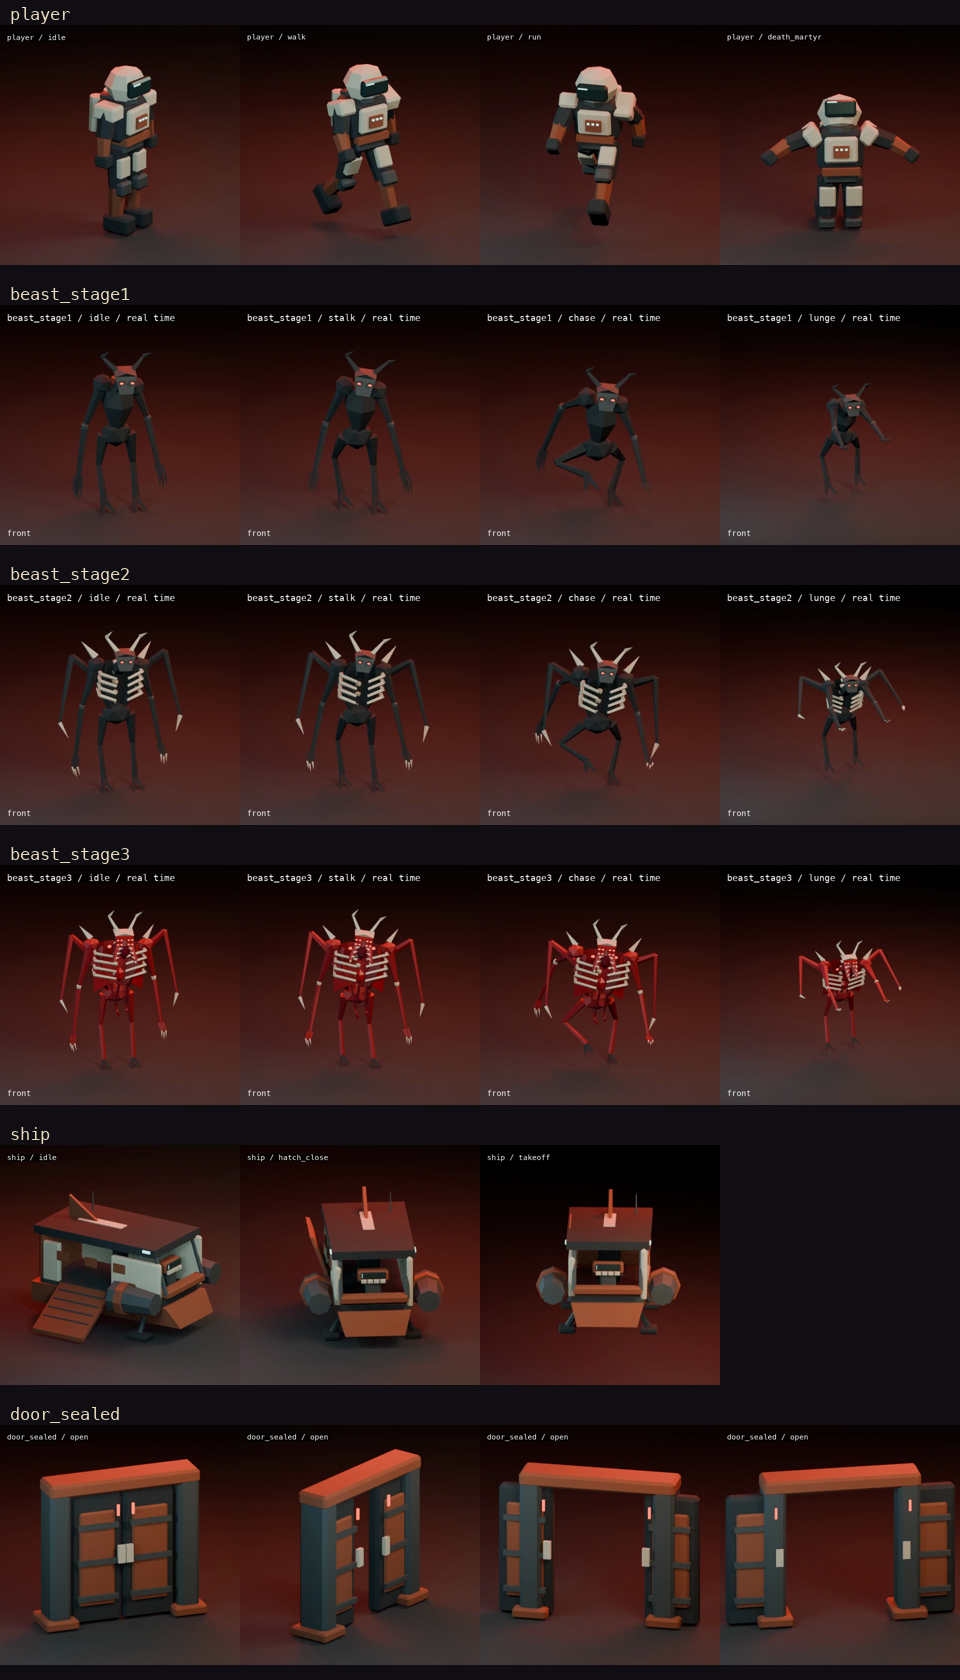
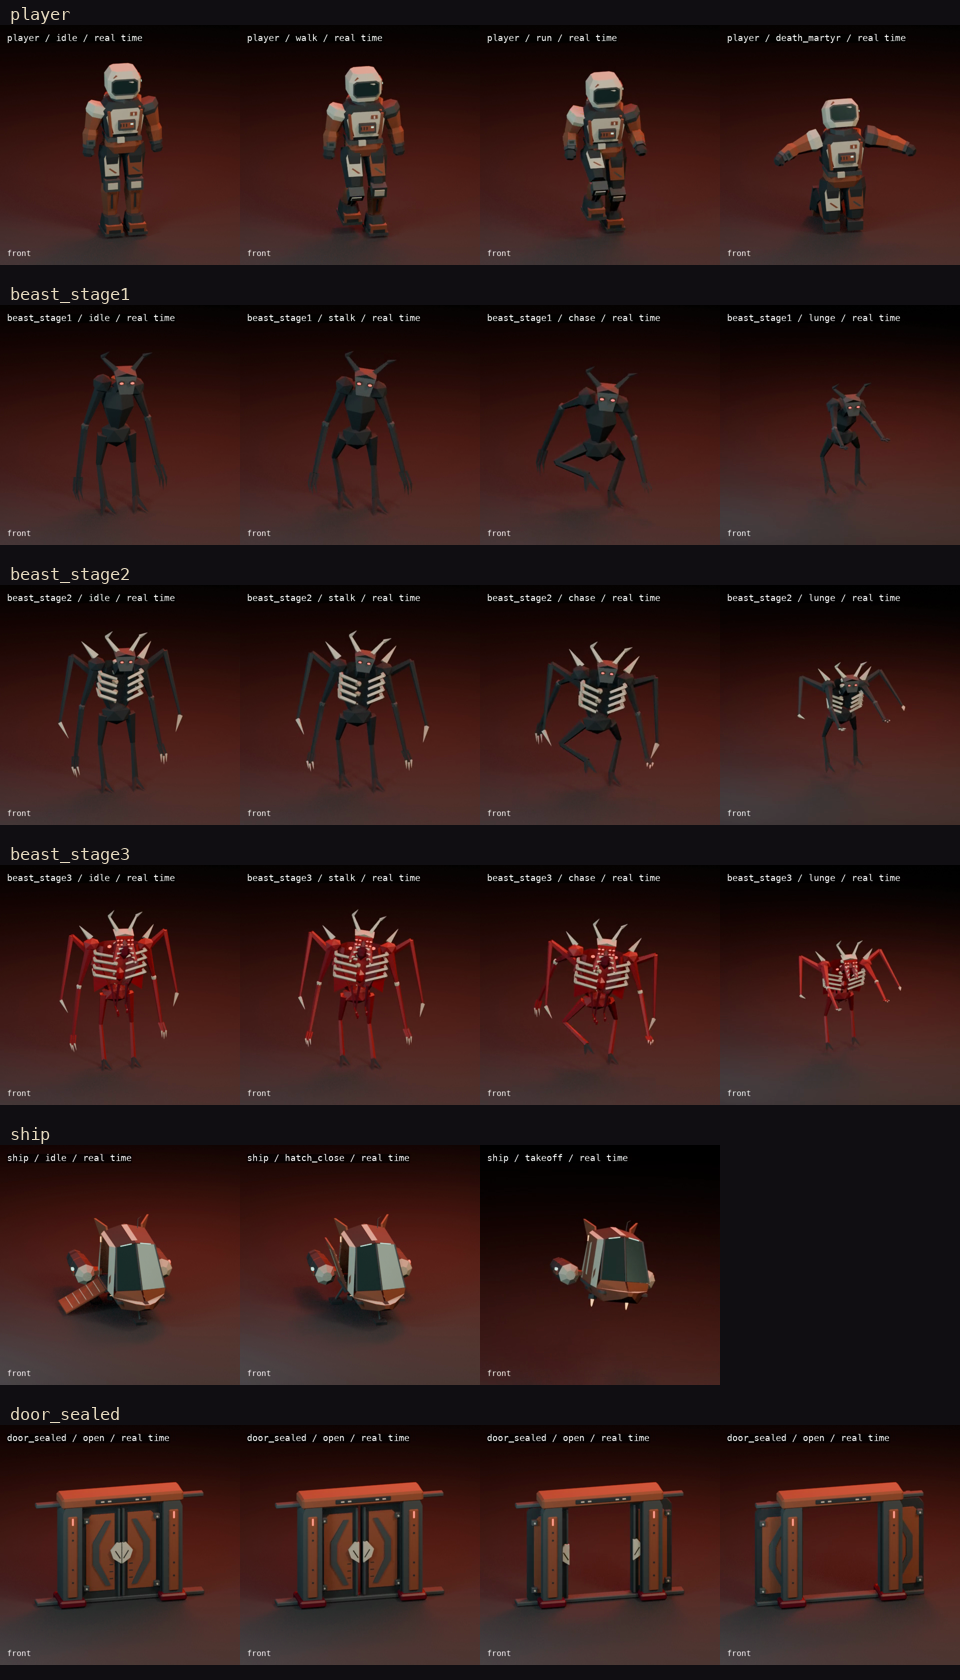
Publish final art review and integration evidence

diff --git a/tools/blender/write_review_guide.py b/tools/blender/write_review_guide.py
@@ -23,7 +23,9 @@ for name,entry in manifest['models'].items():
     clips=', '.join(f'[{clip}]({Path(path).name})' for clip,path in entry.get('review_sheets',{}).items()) or '—'
     lines.append(f'| {name} | {views} | {clips} |')
 if 'escape_video' in manifest['models']['ship']['files']:
-    lines += ['', '![Escape over the blood sea](ship_escape.png)', '', '[Nine-second cinematic takeoff](ship_escape.mp4). This uses the exported takeoff action with preview-only scenery and a warm horizon.', '']
+    lines += ['', '![Escape over the blood sea](ship_escape.png)', '', '[Nine-second cinematic takeoff](ship_escape.mp4). This uses the same authored takeoff action with preview-only scenery and a warm horizon.', '']
+    if 'ship_escape' in attachments:
+        lines += [f"[Watch the PR attachment]({attachments['ship_escape']['url']}).", '']
 lines += ['', '![Selected animation poses](animation_poses.png)', '',
           'The [asset README](../README.md) contains build and integration instructions. The [validation report](validation.json) covers the actual binary FBX files, fresh imports and decoded recordings. Unity runtime import has not been tested in this worktree.', '']
 (ROOT/'assets/previews/README.md').write_text('\n'.join(lines))

diff --git a/tools/blender/contact_sheet.py b/tools/blender/contact_sheet.py
@@ -4,6 +4,7 @@ Run with system Python and Pillow after build_all.py or render_recordings.py.
 """
 import io
 import json
+import os
 import subprocess
 from pathlib import Path
 from PIL import Image, ImageDraw, ImageFont
@@ -29,7 +30,15 @@ canvas.save(PREVIEWS/'contact_sheet.png')
 video_names=['player','beast_stage1','beast_stage2','beast_stage3','ship','door_sealed']
 canvas=Image.new('RGB',(960,1680),'#100e12')
 draw=ImageDraw.Draw(canvas)
-ffmpeg='/opt/homebrew/opt/ffmpeg@6/bin/ffmpeg'
+ffmpeg=None
+for candidate in [os.environ.get('FFMPEG'), '/opt/homebrew/bin/ffmpeg',
+                  '/opt/homebrew/opt/ffmpeg@6/bin/ffmpeg']:
+    if candidate and Path(candidate).is_file():
+        if subprocess.run([candidate,'-version'],capture_output=True).returncode==0:
+            ffmpeg=candidate
+            break
+if not ffmpeg:
+    raise RuntimeError('No working ffmpeg found. Set FFMPEG to an installed executable.')
 for row,name in enumerate(video_names):
     segments=manifest['models'][name]['preview_segments']
     if len(segments)==1:

diff --git a/assets/README.md b/assets/README.md
@@ -2,7 +2,7 @@
 
 All 15 production models are in `Unity/Assets/Resources/Models/`, with `manifest.json` beside them. Load a model with `Resources.Load("Models/player")`, replacing `player` with its manifest name. `Mock/` belongs to another thread and is untouched.
 
-The kit includes the 1.8 m astronaut, three evolving creatures, escape ship, interactive console, sealed door, two rocks, pillar, arch, mural slab, wreckage, shore, and blood sea. All use flat shading and a shared rust, charcoal, bone, and red palette. The largest model has 1,496 triangles. The shore has 288 triangles and the flat sea has two.
+The kit includes the 1.8 m astronaut, three evolving creatures, escape ship, interactive console, sealed door, two rocks, pillar, arch, mural slab, wreckage, shore, and blood sea. All use flat shading and a shared rust, charcoal, bone, and red palette. The largest model has 1,404 triangles. The shore has 836 triangles and the flat sea has two.
 
 ## Rebuild
 
@@ -33,27 +33,39 @@ Every named action is sampled on every frame at 24 fps. Temporary NLA strips pre
 | ship | idle, hatch_close, takeoff |
 | door_sealed | open |
 
-Use Generic rigs for the custom skeletons. Set looping from the manifest's `loop` flag. Walk, run, stalk, and chase play in place. Lunge moves its root 0.9 m forward. Takeoff starts with the hatch closed and moves 5 m upward and 3 m forward. Keep those root movements in the animation or consume them through the game controller, but do not apply both. Hold the final pose of death_martyr, lunge, hatch_close, takeoff, and open.
+Use Generic rigs and set looping from the manifest. Walk, run, stalk and chase have no net forward travel; the game controller supplies locomotion. Preserve their animated vertical offsets and limb poses. Lunge moves its root 0.9 m forward. The player's seven-second `death_martyr` ends at `(0, -0.384, -0.015)` m relative to its starting root. The ship's nine-second `takeoff` starts with the hatch closed and ends at `(1.6, 12.35, -13.2)` m, with folded landing feet and the nose raised. Apply those authored movements once. Hold the final martyr, lunge, hatch-close and door-open poses; finish the escape transition at the end of takeoff.
 
 ## Interactive geometry
 
-The console has a blank UV-mapped `screen` quad and independent `tile_0` through `tile_3` meshes. Press a tile 0.025 m along exported +Z, then restore it. The ship contains a visible cockpit console and a hinged side hatch. The standalone console is suitable for the game's decoding interaction.
+The console has a blank 0.79 × 0.19 m UV-mapped `screen`, centred at `(0, 1.235, -0.343)`, and independent `tile_0` through `tile_3` meshes. Its front faces -Z. Press a tile 0.025 m along model-local +Z, then restore its original position. Mesh origins remain at the asset base; mesh bounds give each key's visible centre. The ship has a decorative cockpit dashboard and a hinged side ramp. Its entry is 1.58 m wide with at least 1.91 m vertical clearance, and its open ramp extends to X = 2.87559 m. Play `hatch_close` before `takeoff`.
 
 The mural's `picture` quad is 1.22 m wide and 1.60 m high, with UVs spanning 0 to 1. Replace its material with the game mural. Both screen and picture faces point toward exported -Z.
 
+The sealed door opens in 3.5 seconds. Each leaf first unseals 0.06 m rearwards, then slides 1.19 m outwards. Allow 4.60 m total width for the rails. A conservative traversal opening is 2.04 m wide by 2.60 m high above the 0.11 m threshold.
+
 The shore and sea are each 20 m square. With the shore at the origin, put the sea at Unity position `(0, 0.36, -14)`. The shore's dry edge lies at Z = +10 and its submerged edge at Z = -10. Repeat shore tiles along X in 20 m steps; repeat sea tiles in X and Z. The sea is flat so the game can supply any wave or blood shader.
 
-FBX contains flat base colours and emissive values. Unity's selected render pipeline may require material conversion and emission enabled on `eye` and `signal`. No `.meta`, Unity editor scripts, colliders, controller code, or imported Unity material assets are supplied.
+FBX contains flat base colours and emissive values. Preserve emission for `eye`, `signal` and the ship's `escape_amber`, and preserve two-sided rendering for thin panels, screen/picture faces and water. Visors are opaque. The sea uses a separate `blood_sea_surface` material. Preview lighting and scenery are not exported. Unity material conversion and runtime appearance still need verification in the selected render pipeline. No `.meta`, colliders, controllers or Unity material assets are supplied.
 
 ## Verification and previews
 
 ```sh
 /Applications/Blender.app/Contents/MacOS/Blender --background --factory-startup --python-exit-code 1 --python tools/blender/validate.py
+/Applications/Blender.app/Contents/MacOS/Blender --background --factory-startup --python-exit-code 1 --python tools/blender/audit_beast_motion.py
 python3 tools/blender/contact_sheet.py
+python3 tools/blender/write_review_guide.py
 ```
 
 The contact sheet command needs Pillow. It uses the saved PNGs and decoded MP4 frames.
 
-`assets/previews/validation.json` records checks against the actual binary FBX and a fresh Blender FBX import: identity roots, metre units, take names, triangle counts, bounds, UVs, one armature, and sampled animated bounds. All six MP4s are decoded as H.264/yuv420p. Revised recordings show three simultaneous views at 12 fps with the original clip timing; key poses and static views also have dedicated PNG review sheets. These checks do not replace a Unity runtime test; the Unity project is owned by another thread.
+`assets/previews/validation.json` records checks against the actual binary FBX and a fresh Blender FBX import: identity roots, metre units, take names, triangle counts, bounds, UVs, one armature, and sampled animated bounds. All seven MP4s are decoded as H.264/yuv420p. Revised inspection recordings show three simultaneous views at 12 fps with the original clip timing; key poses and static views also have dedicated PNG review sheets. The separate escape cinematic runs at 24 fps. These checks do not replace a Unity runtime test; the Unity project is owned by another thread.
 
 The [contact sheet](previews/contact_sheet.png) shows every model. The [pose sheet](previews/animation_poses.png) samples the recordings. [Review notes](previews/README.md) link each recording and identify its clip timestamps.
+
+`build_all.py` also renders the ship's separate nine-second escape cinematic over a blood sea. To repeat only that shot from the saved source:
+
+```sh
+/Applications/Blender.app/Contents/MacOS/Blender --background --factory-startup --python-exit-code 1 --python tools/blender/render_escape.py
+```
+
+The beast motion audit evaluates all 678 baked frames for stance contact, ground clearance, connected joints and seamless loop endpoints. Its source hashes and measured tolerances are recorded in `assets/previews/beast_motion_validation.json`. Uploaded PR recordings are indexed by content hash in `assets/previews/attachments.json`.
